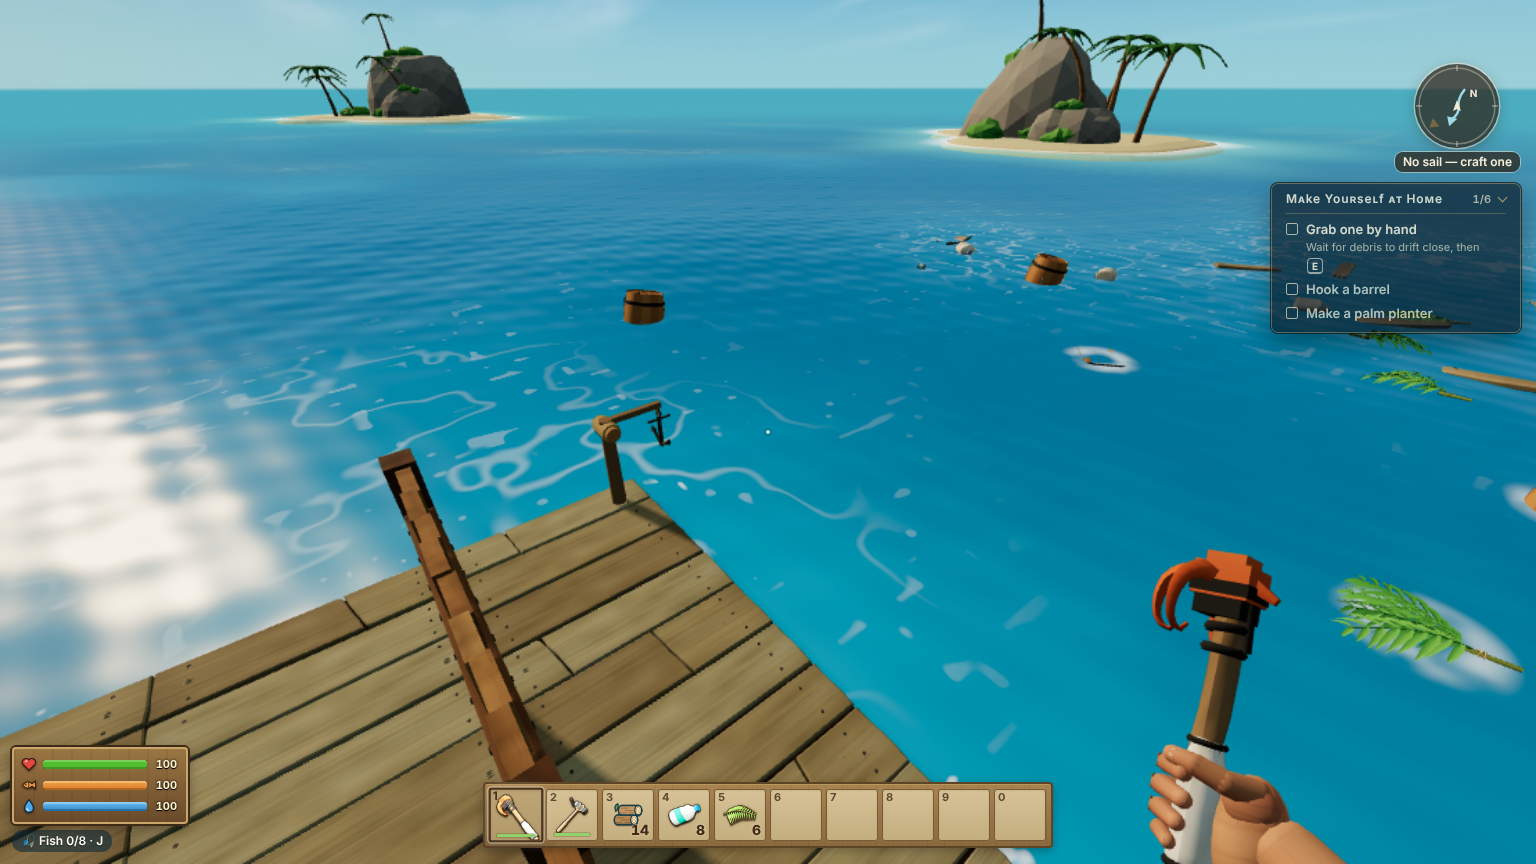
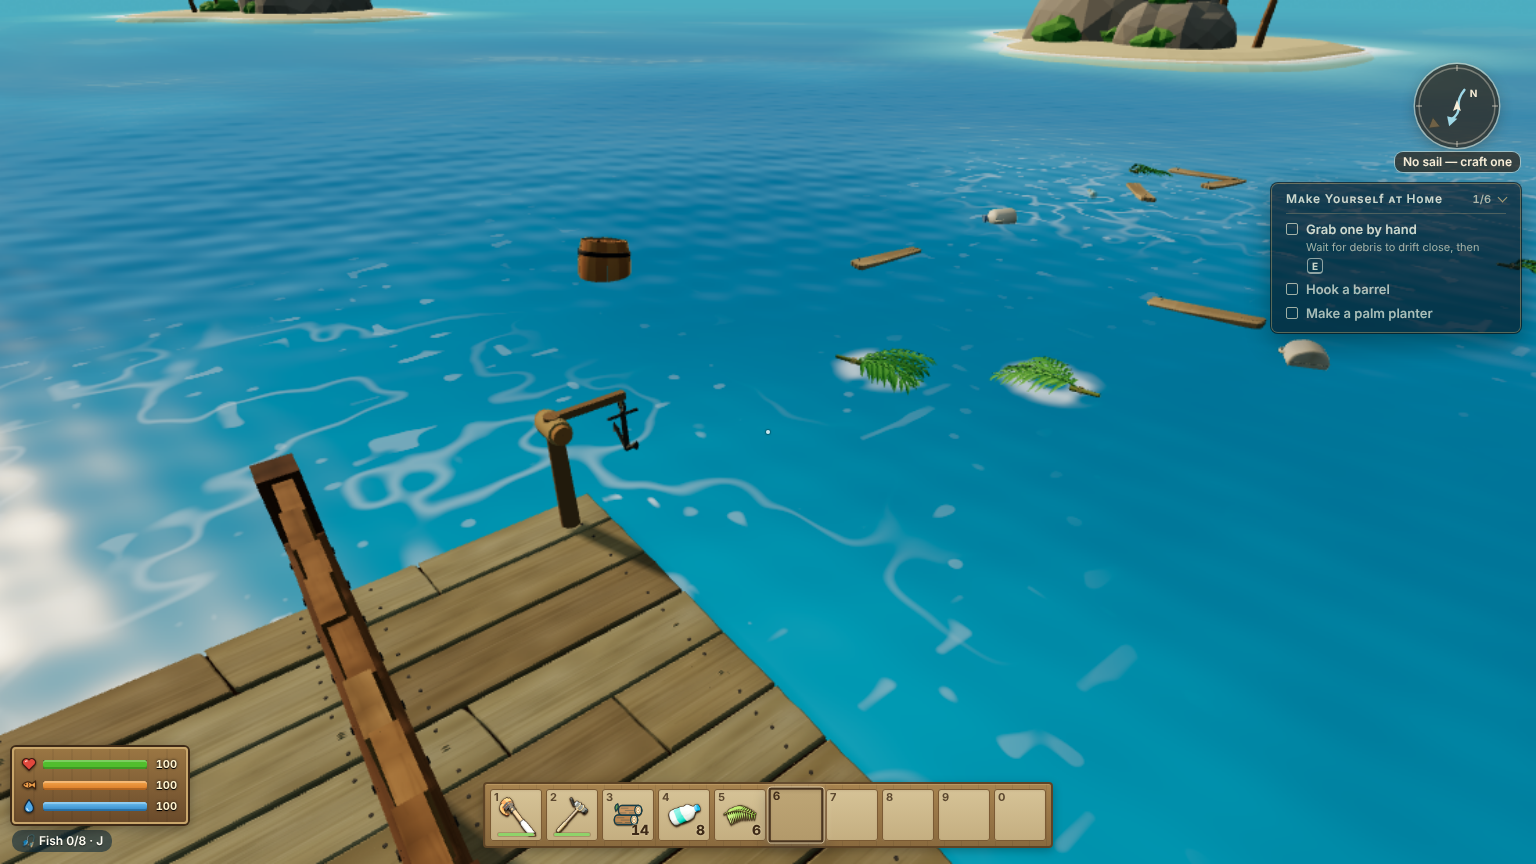
Retake first-person after shots on the final build, add one tile from a wall
Empty hand so no prompt sits under the crosshair; chest and table shots look down at the top stood on; clamber frozen early in the pull-up, facing the wall top.

diff --git a/check_climb.py b/check_climb.py
@@ -508,7 +508,7 @@ def shoot(b, report):
     decor = [{'type': 'crate', 'x': -1.4, 'z': 0}, {'type': 'maptable', 'x': 1.4, 'z': 0}]
     pieces = [{'t': 'wall', 'i': 0, 'j': -1, 'l': 0, 'r': 0}, {'t': 'wall', 'i': -1, 'j': -1, 'l': 0, 'r': 0}, {'t': 'wall', 'i': 1, 'j': -1, 'l': 0, 'r': 0}]
     save = {'tiles': tiles, 'decor': decor, 'pieces': pieces, 'stock': {}, 'fish': 0, 'collected': 1,
-            'hostInventory': {'slots': inv + [None] * 23, 'selected': 0}}
+            'hostInventory': {'slots': inv + [None] * 23, 'selected': 0 if args.shot_prefix == 'before-' else 5}}  # after: an empty hand (no throw prompt under the crosshair)
     ctx = b.new_context(viewport={'width': 1536, 'height': 864})
     if args.shot_prefix != 'before-': ctx.add_init_script(VCLOCK_JS)
     ctx.add_init_script('localStorage.setItem("little-raft-v1",%s);localStorage.setItem("little-raft-hints",%s);window.__BASE_DECOR=[];'
@@ -535,9 +535,9 @@ def shoot_after(page, report):
     page.evaluate('__vt.start()')
     views = [  # name, start x, z, yaw, until feet / freeze progress, view pitch, view yaw
         ('wall', 0.0, -2.62, 0.0, {'until': 2.0}, -0.55, 0.9),
-        ('chest', -2.8, 0.75, 0.0, {'until': 0.6}, -0.6, 0.35),
-        ('table', 2.8, 0.75, 0.0, {'until': 0.6}, -0.6, -0.35),
-        ('clamber', -1.2, -2.62, 0.0, {'freeze': 0.45}, None, None),
+        ('chest', -2.8, 0.75, 0.0, {'until': 0.6}, -0.95, 0.8),  # looking down past the feet at the crate top, away from the wall
+        ('table', 2.8, 0.75, 0.0, {'until': 0.6}, -0.95, -0.8),
+        ('clamber', -1.2, -2.62, 0.0, {'freeze': 0.12}, -1.1, 0.0),  # frozen mid pull-up, looking at the wall top
     ]
     for name, x, z, yaw, auto, pitch, vyaw in views:
         page.evaluate(f'__vt.step = 50; __P.start({x}, {z}, {yaw}); raftDebug.aim(-0.1, {yaw})')
@@ -548,7 +548,7 @@ def shoot_after(page, report):
         page.wait_for_function('__P.auto === null', polling=100, timeout=300000)
         page.keyboard.up('KeyW')
         if pitch is not None:
-            wait_frames(page, 4)
+            if 'freeze' not in auto: wait_frames(page, 4)  # a frozen clock steps no physics frames
             page.evaluate(f'raftDebug.aim({pitch}, {vyaw})')
         page.wait_for_timeout(1500)
         p = page.evaluate('({feet:+(__P.phys.y - 1.6 - __P.deckY).toFixed(3), grounded:__P.phys.grounded, climbing:__P.phys.climbing})')
@@ -556,6 +556,13 @@ def shoot_after(page, report):
         report['shots'].append({'file': os.path.relpath(path, ROOT), **p})
         print('  shot', name, p, flush=True)
     page.evaluate('__vt.step = 50')
+    # On the deck one tile (2 m) back from the full wall line (z = -3), facing it, eyes level (same spot as before-wall).
+    page.evaluate('__P.start(0.0, -1.0, 0.0); raftDebug.aim(-0.05, 0.0)')
+    page.wait_for_timeout(1500)
+    p = page.evaluate('({feet:+(__P.phys.y - 1.6 - __P.deckY).toFixed(3), grounded:__P.phys.grounded, climbing:__P.phys.climbing})')
+    path = shots_dir / f'{args.shot_prefix}nextwall.png'; page.screenshot(path=str(path))
+    report['shots'].append({'file': os.path.relpath(path, ROOT), **p})
+    print('  shot nextwall', p, flush=True)
 
 def write(report):
     objs = report['objects']
